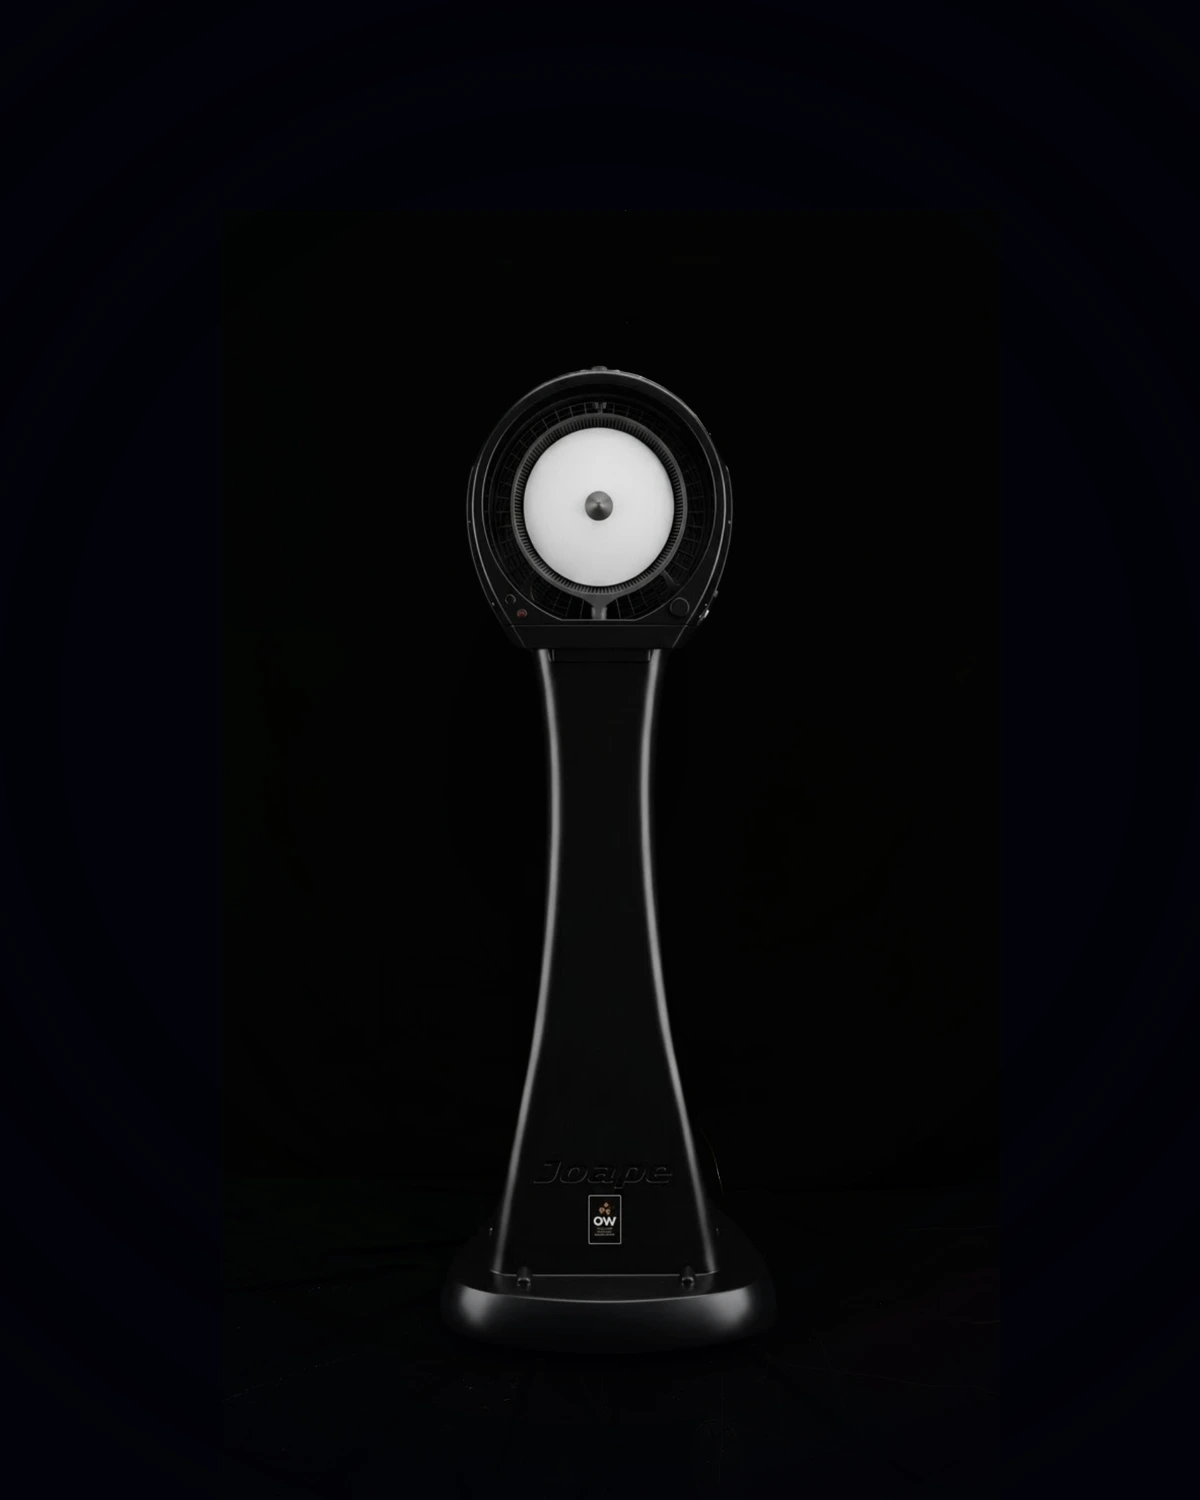
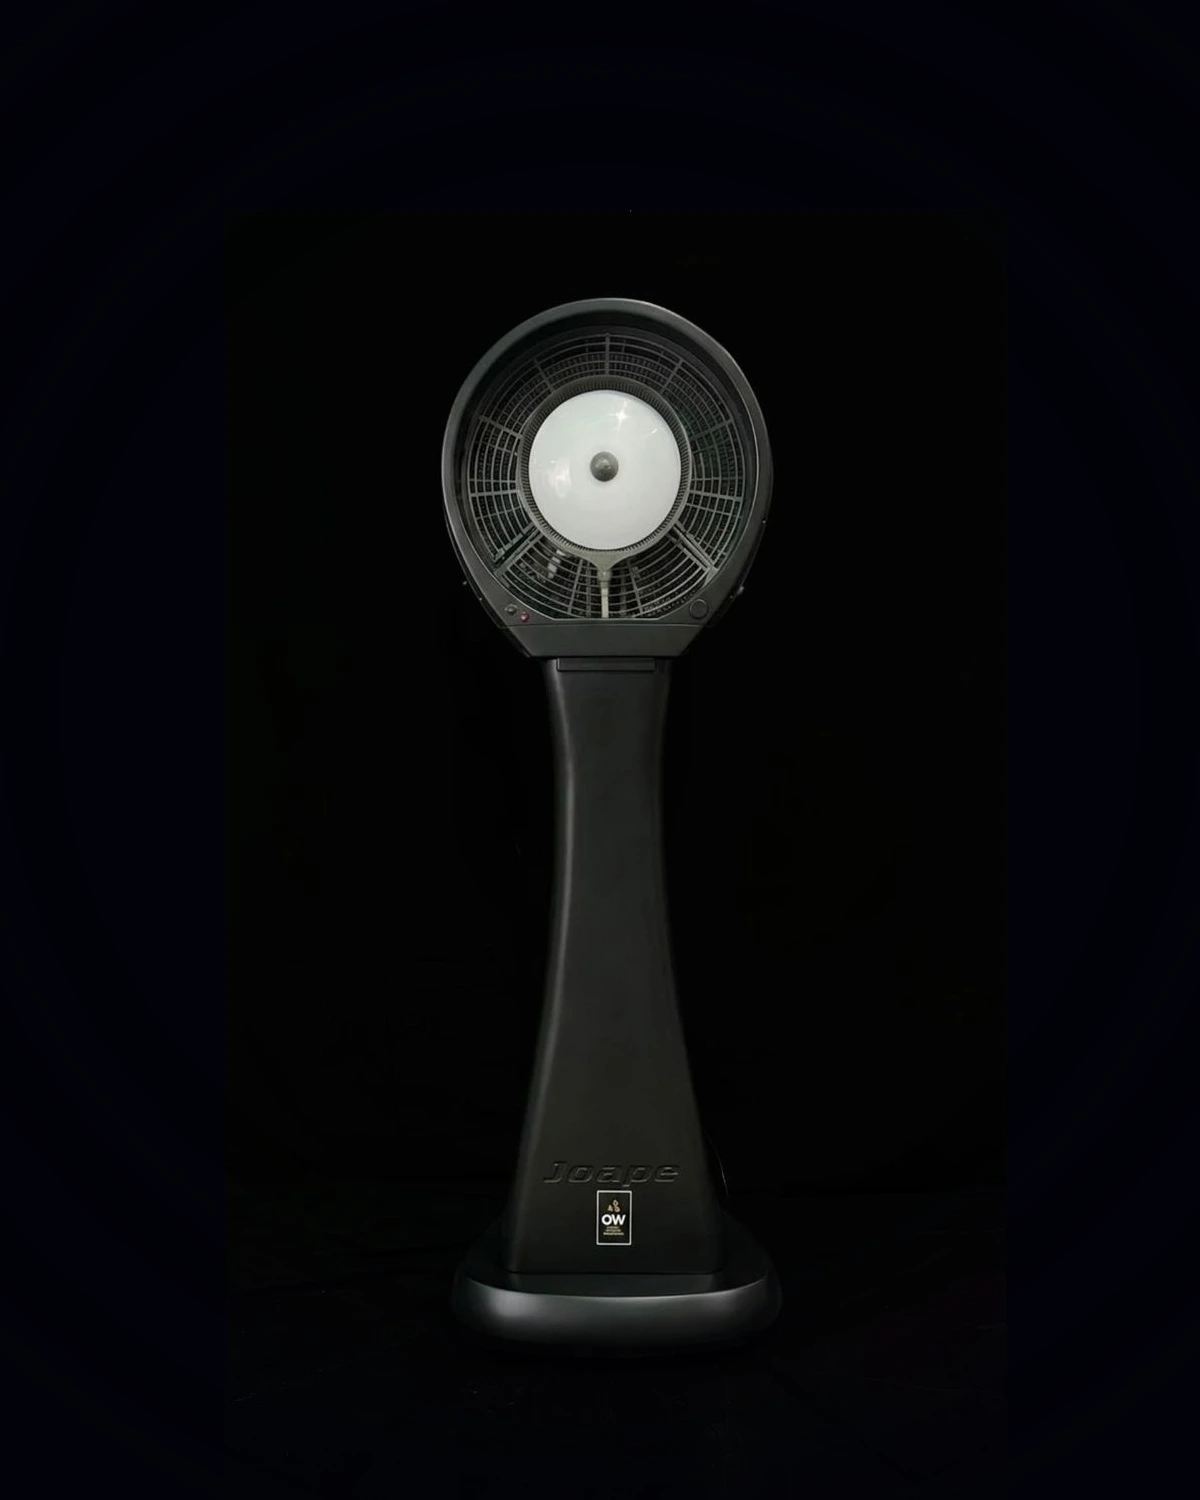
Estufas sin recuadro, filtro Climatización unificado, swaps y fix mobile
- Estufas: fondo hundido a negro (sin recuadro), centradas
- Quitado el filtro Ventiladores: todo bajo Climatización
- Corregidas imágenes cruzadas: Cabezal Mediano/Grande y Cristal con Velas/Grande
- Mobile: botón Seleccionar ya no se corta (apilado full-width)

Changed region(s): [[0.37, 0.184, 0.6475, 0.8893]]

diff --git a/js/app.js b/js/app.js
@@ -50,8 +50,7 @@
     const filters = [
       { key: "all", label: t("catalog.all") },
       { key: "aranas", label: t("filter.aranas") },
-      { key: "climatizacion", label: t("filter.climatizacion") },
-      { key: "ventiladores", label: t("filter.ventiladores") }
+      { key: "climatizacion", label: t("filter.climatizacion") }
     ];
     chips.innerHTML = filters.map(f =>
       `<button class="chip ${activeFilter === f.key ? "active" : ""}" data-filter="${f.key}">${f.label}</button>`
@@ -65,8 +64,7 @@
   /* ---------------- Catalog ---------------- */
   function matches(p) {
     if (activeFilter === "aranas" && p.cat !== "iluminacion") return false;
-    if (activeFilter === "ventiladores" && p.sub !== "ventiladores") return false;
-    if (activeFilter === "climatizacion" && !(p.sub === "climatizadores" || p.sub === "estufas")) return false;
+    if (activeFilter === "climatizacion" && p.cat !== "climatizacion") return false;
     if (searchTerm) {
       const hay = (p.name[lang] + " " + p.desc[lang] + " " + (p.dims || "")).toLowerCase();
       if (!hay.includes(searchTerm)) return false;

diff --git a/css/styles.css b/css/styles.css
@@ -605,10 +605,15 @@ body.bar-visible .wa-float { bottom: 92px; }
   .hero-stats { gap: 24px; }
 }
 
+@media (max-width: 560px) {
+  .card-foot { flex-direction: column; align-items: stretch; gap: 12px; }
+  .card-add { width: 100%; justify-content: center; padding: 11px 16px; }
+}
 @media (max-width: 420px) {
   .hero-stats strong { font-size: 1.7rem; }
-  .product-grid { grid-template-columns: repeat(auto-fill, minmax(160px, 1fr)); gap: 14px; }
+  .product-grid { grid-template-columns: repeat(auto-fill, minmax(158px, 1fr)); gap: 14px; }
   .card-name { font-size: 1.2rem; }
+  .card-body { padding: 16px 14px 18px; }
 }
 
 @media (prefers-reduced-motion: reduce) {
